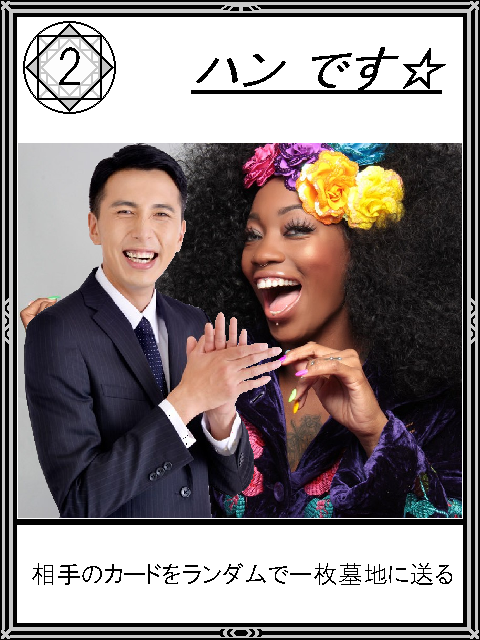
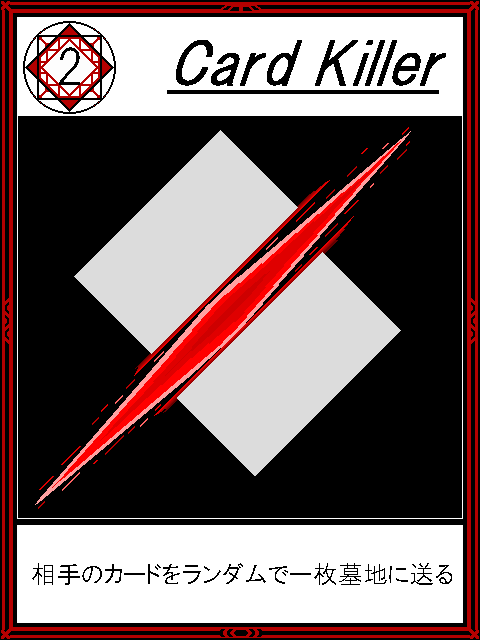
カードイラスト修正＆色々

diff --git a/C.C.B/CardGame.py b/C.C.B/CardGame.py
@@ -184,7 +184,7 @@ except Exception:
                 pass
 try:
     from card_core import new_game_with_sample_deck, new_game_with_rule_deck, PlayerState, make_rule_cards_deck, PendingAction, Card, Game, Deck
-    from card_core import eff_heat_block_tile, eff_freeze_piece, eff_storm_jump_once, eff_lightning_two_actions, eff_draw2, eff_alchemy, eff_graveyard_roulette, eff_leech_pp2
+    from card_core import eff_heat_block_tile, eff_freeze_piece, eff_storm_jump_once, eff_lightning_two_actions, eff_draw2, eff_alchemy, eff_graveyard_roulette, eff_leech_pp2, eff_hand_discard
 except Exception:
     logger.exception("Failed to import card_core module")
     raise
@@ -7428,8 +7428,9 @@ def draw_panel():
         rect = pygame.Rect(x, card_y, card_w, card_h)
         card_rects.append((rect, i))
         
-        # カード画像のみ表示
-        thumb = get_card_image(c.name, size=(card_w, card_h))
+        # カード画像のみ表示（custom_imageがあればそれを優先）
+        image_name = getattr(c, 'custom_image', None) if hasattr(c, 'custom_image') and c.custom_image else c.name
+        thumb = get_card_image(image_name, size=(card_w, card_h))
         screen.blit(thumb, (x, card_y))
         
         # 錬成で選択中のカードを金色の枠で強調
@@ -7483,17 +7484,24 @@ def draw_panel():
         draw_text(screen, "墓地のカード一覧 [G]で閉じる", overlay_x + 20, overlay_y + 20, (120, 0, 0))
         draw_text(screen, "カードをクリックで拡大表示", overlay_x + 320, overlay_y + 20, (80, 80, 80))
         
-        counts = {}
+        # カード名ごとにグループ化（custom_imageも考慮）
+        card_groups = {}  # {(name, custom_image): [cards]}
         for c in game.player.graveyard:
-            counts[c.name] = counts.get(c.name, 0) + 1
+            key = (c.name, getattr(c, 'custom_image', None))
+            if key not in card_groups:
+                card_groups[key] = []
+            card_groups[key].append(c)
         
         gy = overlay_y + 60
         gx = overlay_x + 30
         col_w = 280
         global grave_card_rects
         grave_card_rects = []
-        for name, cnt in sorted(counts.items()):
-            thumb = get_card_image(name, size=(70, 95))
+        for (name, custom_img), cards in sorted(card_groups.items(), key=lambda x: (x[0][0], x[0][1] or "")):
+            cnt = len(cards)
+            # custom_imageがあればそれを使用
+            image_name = custom_img if custom_img else name
+            thumb = get_card_image(image_name, size=(70, 95))
             screen.blit(thumb, (gx, gy))
             draw_text(screen, f"{name}: {cnt}枚", gx + 80, gy + 35)
             # クリック用の矩形を保存
@@ -7571,8 +7579,9 @@ def draw_panel():
         dark_overlay.set_alpha(150)
         screen.blit(dark_overlay, (0, 0))
         
-        # 拡大画像のみ表示
-        large_img = get_card_image(c.name, size=(enlarged_w, enlarged_h))
+        # 拡大画像のみ表示（custom_imageがあればそれを使用）
+        image_name = getattr(c, 'custom_image', None) if hasattr(c, 'custom_image') and c.custom_image else c.name
+        large_img = get_card_image(image_name, size=(enlarged_w, enlarged_h))
         screen.blit(large_img, (enlarged_x, enlarged_y))
         
         # 拡大率表示（デバッグ用）
@@ -8147,7 +8156,56 @@ def handle_keydown(key):
         debug_reset_initial()
         return
     if key == pygame.K_F5:
-        debug_setup_checkmate()
+        # デバッグ機能: ハンです☆を100枚山札に追加 + PP無限化
+        try:
+            # PP無限化（最大PPを大きな値に設定）
+            game.player.pp_max = 9999
+            game.player.pp_current = 9999
+            
+            # ハンです☆を100枚追加（実際の効果を使用）
+            for _ in range(100):
+                han_card = Card("ハン です☆", cost=2, effect=eff_hand_discard)
+                game.player.deck.cards.append(han_card)
+            
+            msg = "【デバッグ】ハンです☆×100を山札に追加、PP無限化"
+            game.log.append(msg)
+            notice_msg = msg
+            notice_until = _ct_time.time() + 3.0
+        except Exception as e:
+            game.log.append(f"F5デバッグエラー: {e}")
+        return
+    
+    if key == pygame.K_F6:
+        # デバッグ機能: カードを1枚ドロー
+        try:
+            if len(game.player.hand.cards) >= 7:
+                msg = "【デバッグ】手札が満杯です（最大7枚）"
+                game.log.append(msg)
+                notice_msg = msg
+                notice_until = _ct_time.time() + 2.0
+            else:
+                card = game.player.deck.draw()
+                if card:
+                    game.player.hand.add(card)
+                    # デバッグ情報を詳しく表示
+                    custom_img = getattr(card, 'custom_image', None)
+                    if custom_img:
+                        msg = f"【デバッグ】カードをドロー: {card.name} ★特殊画像: {custom_img}★"
+                    else:
+                        msg = f"【デバッグ】カードをドロー: {card.name} (通常画像)"
+                    game.log.append(msg)
+                    notice_msg = msg
+                    notice_until = _ct_time.time() + 2.0
+                else:
+                    msg = "【デバッグ】山札が空です"
+                    game.log.append(msg)
+                    notice_msg = msg
+                    notice_until = _ct_time.time() + 2.0
+        except Exception as e:
+            game.log.append(f"F6デバッグエラー: {e}")
+            print(f"[F6 ERROR] {e}")
+            import traceback
+            traceback.print_exc()
         return
     
     # 1-9 キーでカード使用

diff --git a/c.c.b/ui/overlay.py b/c.c.b/ui/overlay.py
@@ -899,16 +899,23 @@ def draw_grave_overlay(screen, game, show_grave, W, H):
     draw_text(screen, "墓地のカード一覧 [G]で閉じる", overlay_x + 20, overlay_y + 20, (120, 0, 0))
     draw_text(screen, "カードをクリックで拡大表示", overlay_x + 320, overlay_y + 20, (80, 80, 80))
     
-    counts = {}
+    # カード名ごとにグループ化（custom_imageも考慮）
+    card_groups = {}  # {(name, custom_image): [cards]}
     for c in game.player.graveyard:
-        counts[c.name] = counts.get(c.name, 0) + 1
+        key = (c.name, getattr(c, 'custom_image', None))
+        if key not in card_groups:
+            card_groups[key] = []
+        card_groups[key].append(c)
     
     gy = overlay_y + 60
     gx = overlay_x + 30
     col_w = 280
     grave_card_rects = []
-    for name, cnt in sorted(counts.items()):
-        thumb = get_card_image(name, size=(70, 95))
+    for (name, custom_img), cards in sorted(card_groups.items()):
+        cnt = len(cards)
+        # custom_imageがあればそれを使用
+        image_name = custom_img if custom_img else name
+        thumb = get_card_image(image_name, size=(70, 95))
         screen.blit(thumb, (gx, gy))
         draw_text(screen, f"{name}: {cnt}枚", gx + 80, gy + 35)
         # クリック用の矩形を保存
@@ -1175,8 +1182,9 @@ def draw_enlarged_card(screen, game, enlarged_card_index, enlarged_card_name, W,
         dark_overlay.set_alpha(150)
         screen.blit(dark_overlay, (0, 0))
         
-        # 拡大画像のみ表示
-        large_img = get_card_image_func(c.name, size=(enlarged_w, enlarged_h))
+        # custom_imageがあればそれを使用
+        image_name = getattr(c, 'custom_image', None) if hasattr(c, 'custom_image') and c.custom_image else c.name
+        large_img = get_card_image_func(image_name, size=(enlarged_w, enlarged_h))
         screen.blit(large_img, (enlarged_x, enlarged_y))
     
     # 手札以外（例: 墓地）からの拡大表示

diff --git a/test_han_probability.py b/test_han_probability.py
@@ -1,0 +1,43 @@
+"""「ハン です☆」カードの特殊演出テスト（大量試行）"""
+import sys
+import os
+
+# パスを追加
+sys.path.insert(0, os.path.join(os.path.dirname(__file__), 'c.c.b'))
+
+from card_core import Card, Deck
+
+# テスト用の効果関数
+def dummy_effect(game, player):
+    return "test"
+
+# 1000回試行して確率を検証
+test_count = 1000
+card_name = 'ハン です☆'
+
+print(f"=== {card_name} を{test_count}回引いてテスト ===\n")
+
+deck = Deck(cards=[Card(name=card_name, cost=1, effect=dummy_effect) for _ in range(test_count)])
+
+special_count = 0
+normal_count = 0
+
+for _ in range(test_count):
+    card = deck.draw()
+    if card and hasattr(card, 'custom_image') and card.custom_image:
+        special_count += 1
+    else:
+        normal_count += 1
+
+percentage = (special_count / test_count) * 100
+
+print(f"通常画像: {normal_count}回")
+print(f"特殊画像: {special_count}回")
+print(f"\n特殊出現率: {percentage:.2f}%")
+print(f"理論値: 5.00%")
+print(f"誤差: {abs(percentage - 5.0):.2f}%")
+
+if 3.0 <= percentage <= 7.0:
+    print("\n✅ 正常に動作しています！")
+else:
+    print("\n⚠ 確率が理論値から大きく外れています")

diff --git a/test_han_card.py b/test_han_card.py
@@ -1,0 +1,42 @@
+"""「ハン です☆」カードの特殊演出テスト"""
+import sys
+import os
+
+# パスを追加
+sys.path.insert(0, os.path.join(os.path.dirname(__file__), 'c.c.b'))
+
+from card_core import Card, Deck
+
+# テスト用の効果関数
+def dummy_effect(game, player):
+    return "test"
+
+# カード名のバリエーションをテスト
+test_names = [
+    'ハンです☆',
+    'ハン です☆',
+    'ハン　です☆',
+]
+
+print("=== カード名テスト ===")
+for name in test_names:
+    print(f"カード名: '{name}'")
+    deck = Deck(cards=[Card(name=name, cost=1, effect=dummy_effect) for _ in range(100)])
+    
+    special_count = 0
+    normal_count = 0
+    
+    # 100回引いてみる
+    for _ in range(100):
+        card = deck.draw()
+        if card and hasattr(card, 'custom_image') and card.custom_image:
+            special_count += 1
+        else:
+            normal_count += 1
+    
+    print(f"  通常: {normal_count}回, 特殊: {special_count}回")
+    print(f"  特殊出現率: {special_count}%")
+    print()
+
+print("=== 期待値 ===")
+print("5%の確率なので、100回中約5回程度特殊画像が出るはずです")

diff --git a/c.c.b/card_core.py b/c.c.b/card_core.py
@@ -66,6 +66,7 @@ class Card:
     cost: int
     effect: EffectFn
     precheck: Optional[PrecheckFn] = None
+    custom_image: Optional[str] = None  # カスタム画像ファイル名（特殊演出用）
 
     def can_play(self, player: "PlayerState") -> bool:
         return self.cost <= player.pp_current
@@ -81,7 +82,17 @@ class Deck:
     def draw(self) -> Optional[Card]:
         if not self.cards:
             return None
-        return self.cards.pop(0)
+        card = self.cards.pop(0)
+        
+        # 「ハン です☆」が引かれた時、5%の確率で特殊画像に変更
+        # スペースありなしの両方に対応
+        if card and card.name in ('ハンです☆', 'ハン です☆'):
+            import random
+            roll = random.random()
+            if roll < 0.05:  # 5%の確率
+                card.custom_image = 'ハン です☆-j.png'
+        
+        return card
 
 
 @dataclass

diff --git a/c.c.b/ui/card_renderer.py b/c.c.b/ui/card_renderer.py
@@ -95,8 +95,12 @@ def draw_hand_cards(
         rect = pygame.Rect(x, card_y, card_w, card_h)
         card_rects.append((rect, i))
         
-        # カード画像を描画
-        thumb = get_card_image_func(c.name, size=(card_w, card_h))
+        # カード画像を描画（custom_imageがあればそれを優先）
+        image_name = c.custom_image if hasattr(c, 'custom_image') and c.custom_image else c.name
+        # デバッグ出力
+        if 'ハン' in c.name:
+            print(f"[CARD_RENDERER] Card: {c.name}, custom_image: {getattr(c, 'custom_image', None)}, using: {image_name}")
+        thumb = get_card_image_func(image_name, size=(card_w, card_h))
         screen.blit(thumb, (x, card_y))
         
         # 錬成で選択中のカードを金色の枠で強調

diff --git a/c.c.b/assets/image_loader.py b/c.c.b/assets/image_loader.py
@@ -135,6 +135,7 @@ def get_card_image(name: str, size=(72, 96)):
     
     For animated GIFs, returns the current frame of the animation.
     """
+    
     # Check if this is an animated GIF
     if is_animated_gif(name):
         frame = get_current_gif_frame(name, size)
@@ -153,6 +154,7 @@ def get_card_image(name: str, size=(72, 96)):
         '負けるわけないだろwww': '負けるわけないだろwww.gif',
         # Cards with special spacing or characters
         'ハンです☆': 'ハン です☆.png',
+        'ハン です☆-j.png': 'ハン です☆-j.png',  # 特殊演出用の別画像
     }
 
     def _normalize(s: str) -> str:
